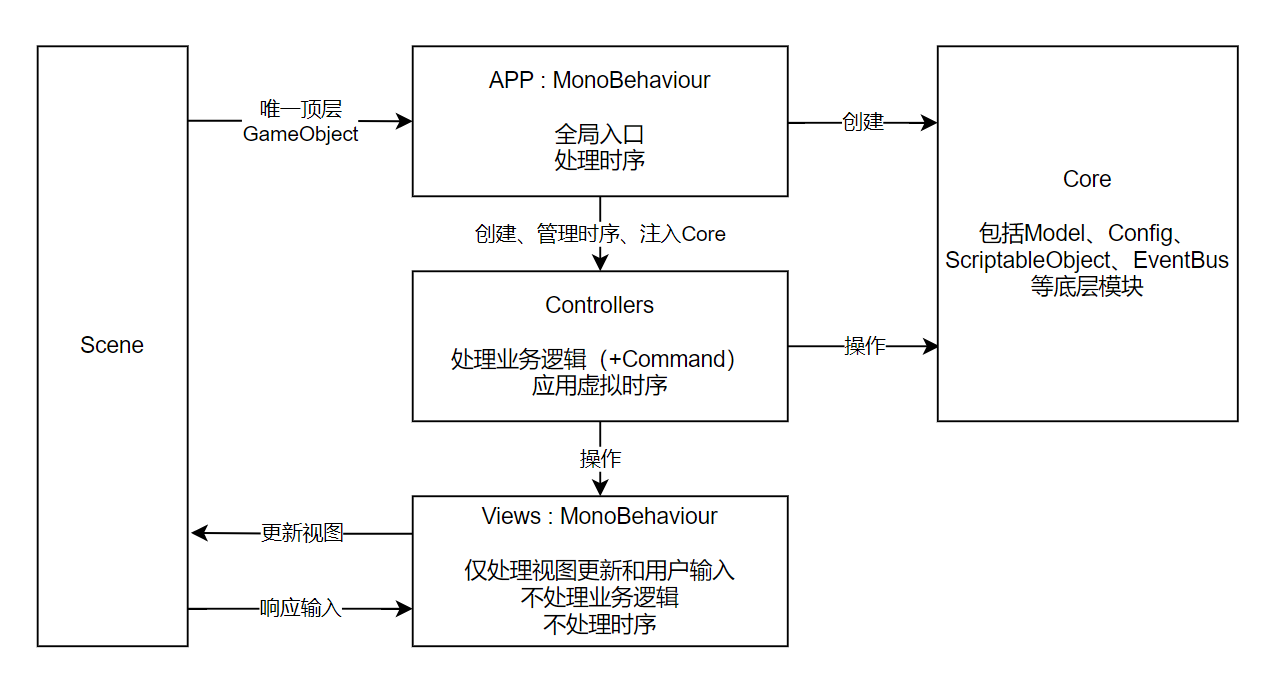
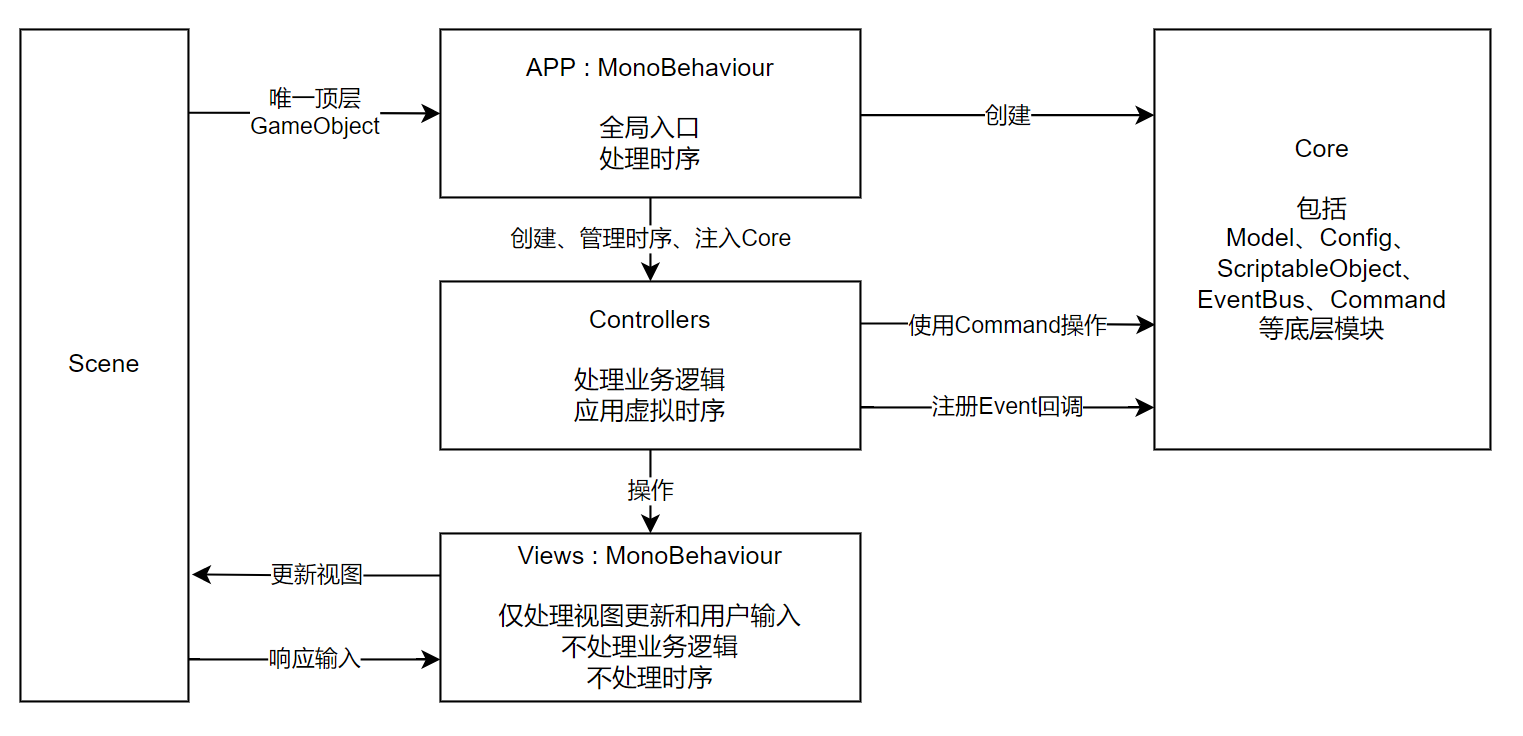
update posts/47

diff --git a/content/1@posts/47@game-client-architecture.md b/content/1@posts/47@game-client-architecture.md
@@ -29,7 +29,7 @@ tags:
 1. 因为 APP 是 Scene 中的唯一顶层 GameObject，所以 APP 一定会被首先创建
 2. APP 创建 Core
 3. APP 创建各个 Controller，并把 Core 提供给各个 Controller
-4. Controller 从 Scene 中获取需要管理的 View，并注册 View 的事件回调函数
+4. Controller 从 Scene 中获取需要管理的 View，并注册 View 的事件回调函数。Controller 可能还需要注册 Core 里面的回调函数
 
 ### 处理用户输入或其他事件
 
@@ -44,6 +44,12 @@ tags:
 ### 生命周期管理
 
 比如 Start/Update 之类的，都仅在 APP 里面进行。APP 可以驱动 Controller 实现逻辑 Update
+
+### 业务逻辑与表现的分离，团队合作
+
+业务逻辑基本都在 Core 里面进行。Controller 通过 Command 触发业务逻辑，Core 通过 Event 通知 Controller 更新视图
+
+这样，在团队分工合作中，可以由高级程序员编写 Command/Events，由初级程序员实现 View/Controller。只要接口（也就是 Command/Events）被定义好即可
 
 ## APP
 
@@ -120,12 +126,10 @@ public class App : MonoBehaviour {
     // construct core
     this.core = new Core();
     // sync fetch
-    this.core.PlayerData = Addressables.LoadAssetAsync<PlayerData>("Assets/PlayerData.asset").WaitForCompletion();
+    this.core.Config = Addressables.LoadAssetAsync<Config>("Assets/Config.asset").WaitForCompletion();
   }
 }
 ```
-
-当然，也可以使用 ScriptableObject 保存全局配置/Global Config
 
 ### 响应式
 
@@ -182,6 +186,8 @@ public class SomeController {
   }
 }
 ```
+
+如果不想自己实现 Watch，可以直接使用[这里的代码片段](https://github.com/DiscreteTom/unity3d-utils/tree/main/General/Watch)
 
 ### 事件/消息
 
@@ -318,3 +324,7 @@ public class SomeView : MonoBehaviour {
   }
 }
 ```
+
+## 示例项目
+
+[复刻了一波 BBTAN](https://github.com/DiscreteTom/BBTAN)
